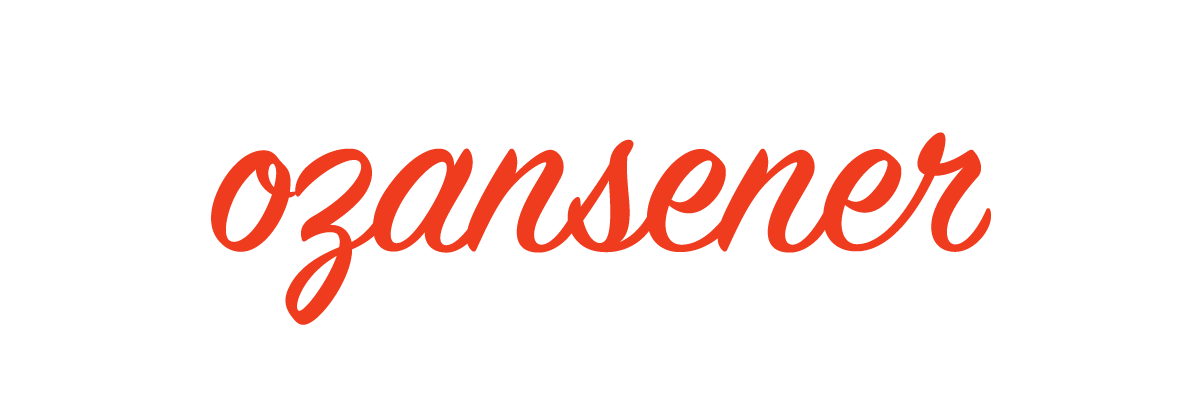
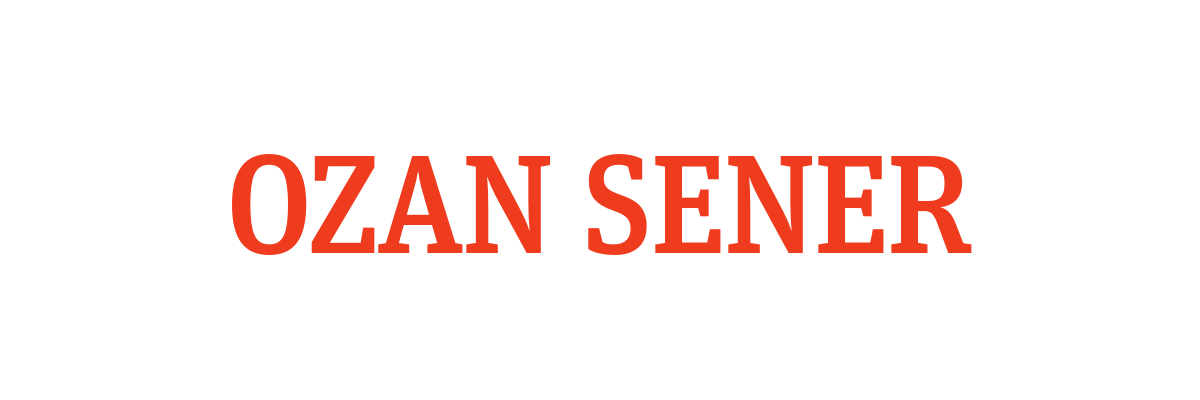
zehra

Changed region(s): [[0.1542, 0.33, 0.8325, 0.81]]

diff --git a/index.html b/index.html
@@ -49,7 +49,7 @@
         <div id="identity">
             <div class="container">
                 <div class="six column">
-                 <img src="ozansener-typographic_mk.png" /> 
+                 <img src="ozansener-typographic.png" /> 
                 </div>
             </div>
         </div>
